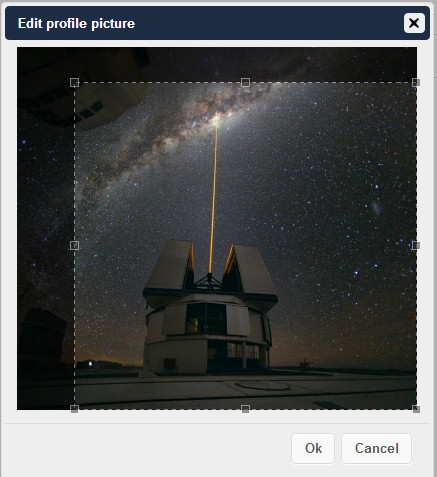
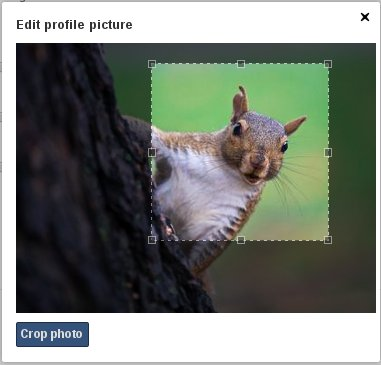
Update contact app images and text for new version

diff --git a/user_manual/pim/contacts.rst b/user_manual/pim/contacts.rst
@@ -45,13 +45,13 @@ After upload, the interface will automatically place your contacts into ownCloud
 Create contacts manually
 ~~~~~~~~~~~~~~~~~~~~~~~~
 
-On the left side of contacts app, you could see the new contact button (first one).
-Click on it. You can now see an empty contact in the main part of the interface.
-You have the ability to add all your informations about the contact:
-the name, the address, the e-mail, the telephone nr, etc.
+On the left side of contacts app, you could see the *New Contact* button.
+After clicking on it you can now see an empty contact in the main part of the interface.
+You have the ability to add all your information about the contact:
+the name, the address, the e-mail, the telephone number, etc.
 
 Just click on a field and start typing the information.
-You can use the "Add Field" button to add another types of information for this contact.
+You can use the "Add field..." button to add another types of information for this contact.
 
 .. image:: ../images/contact_emptycontact.png
 Empty contact view
@@ -68,7 +68,7 @@ There are two methods in which you can give a picture id to the specific contact
 Contact picture options
 
 1) **Direct upload**
-2) **Select pics already uploaded in ownCloud files.**
+2) **Select photos already uploaded in ownCloud files.**
 
 After you have selected the picture for the contact you get
 an option to crop the picture to suit your requirements
@@ -76,7 +76,7 @@ an option to crop the picture to suit your requirements
 .. image:: ../images/contact_crop.jpg
 Cropping contact picture
 
-You can crop the picture however you wish and then press OK.
+You can crop the picture however you wish and then press *Crop photo*.
 
 As you can see it is really easy to set things right in this app.
 It automatically picks up the First name, Middle name (if any) and the last name
